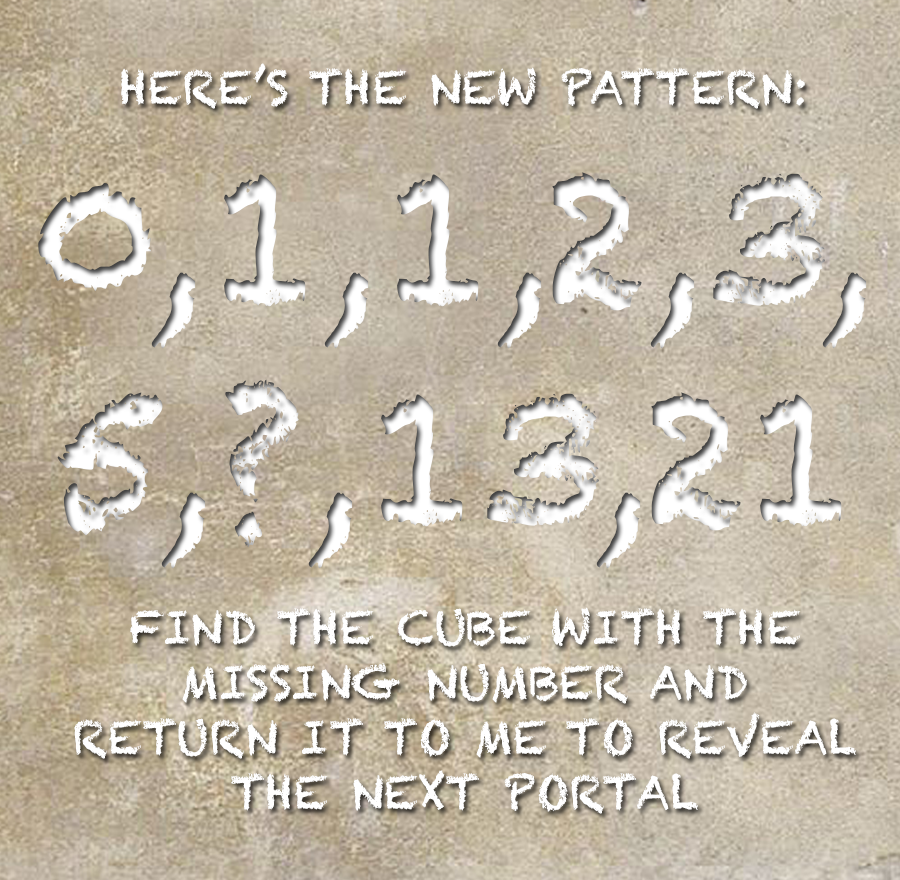
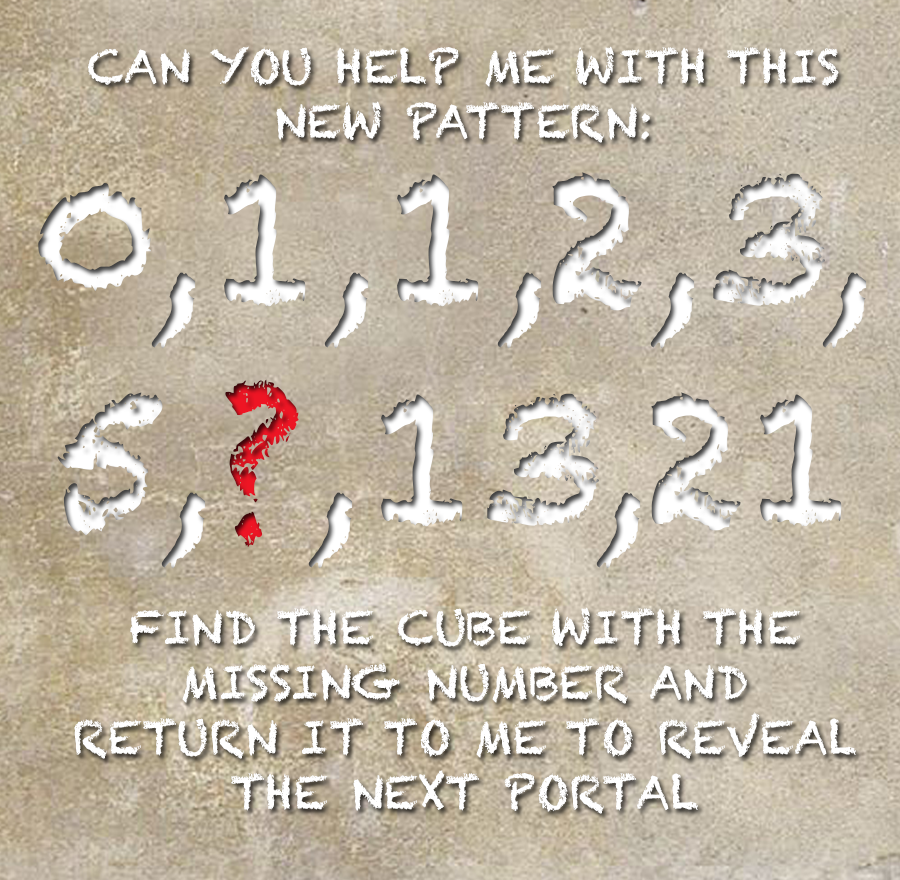
Add stone tablet instructions for level one, add script to animate through instructions

Changed region(s): [[0.0933, 0.0307, 0.9333, 0.1841], [0.2489, 0.4295, 0.3422, 0.6136]]

diff --git a/level1.html b/level1.html
@@ -74,7 +74,20 @@
           <a-box id='twelve' src='img/numbers/12.png' position="21 3.54 -21.25" height="2" width="2" depth="2" scale="1 1 1"></a-box>
 
           // text box
-          <a-box id='text-3' src='img/textboxes/text3.png' position="-4.55 1.44 2.30" rotation="0 45 0" height="2" width="2" depth=".1" scale="-2 2 1.8"></a-box>
+          <a-box id='text-1' src='img/textboxes/text1.png' position="-4.55 1.44 2.30" rotation="0 45 0" height="2" width="2" depth=".1" scale="-2 2 1.8" visible="false"></a-box>
+
+          <a-box id='text-2' src='img/textboxes/text2.png' position="-4.55 1.44 2.30" rotation="0 45 0" height="2" width="2" depth=".1" scale="-2 2 1.8" visible="false"></a-box>
+
+          <a-box id='text-3' src='img/textboxes/text3.png' position="-4.55 1.44 2.30" rotation="0 45 0" height="2" width="2" depth=".1" scale="-2 2 1.8" visible="false"></a-box>
+            <!-- <a-animation
+             attribute="scale"
+             dur="500"
+             from="0.1 0.1 0.1"
+             to="1 1 1"
+             easing="linear"
+             begin="expand">
+           </a-animation> -->
+          </a-box>
 
           <!-- <a-entity id='text' geometry="primitive: plane;  width: auto; height: 2;" visible='false' text="value: Oh...  hello! Can you help me? Do you see a pattern here...; align: center; width: 4; wrap-count: 20; color: #333333" position="0 4 -5.73" rotation='0 15 0' material="color: white" >
             <a-animation
@@ -88,12 +101,29 @@
           </a-entity> -->
         </a-scene>
 
-        <!-- <script>
+        <script>
+          // document.querySelector('#lion').addEventListener('mouseenter', function() {
+          // document.querySelector('#text').setAttribute("visible", true)
+          // document.querySelector('#text').emit('text_expand')
+          // })
           document.querySelector('#lion').addEventListener('mouseenter', function() {
-          document.querySelector('#text').setAttribute("visible", true)
-          document.querySelector('#text').emit('text_expand')
+              document.querySelector('#text-1').setAttribute("visible", true)
           })
-        </script> -->
+
+          document.querySelector('#text-1').addEventListener('mouseenter', function() {
+            $(this).data('timeout', setTimeout(function(){
+              document.querySelector('#text-1').setAttribute("visible", false)
+              document.querySelector('#text-2').setAttribute("visible", true)
+            }, 4000));
+          })
+
+          document.querySelector('#text-2').addEventListener('mouseenter', function() {
+            $(this).data('timeout', setTimeout(function(){
+              document.querySelector('#text-2').setAttribute("visible", false)
+              document.querySelector('#text-3').setAttribute("visible", true)
+            }, 5000));
+          })
+        </script>
 
     </body>
 </html>
